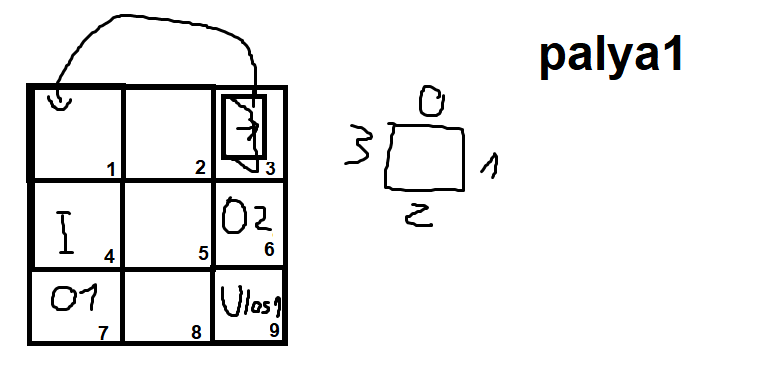
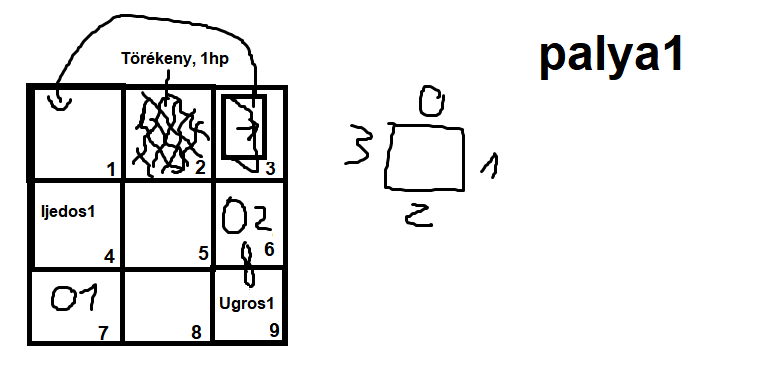
tesztesetek hozzáadva

diff --git a/src/skeletonApp/Skeleton.java b/src/skeletonApp/Skeleton.java
@@ -315,7 +315,7 @@ public class Skeleton {
 		} else if(commandstring.split(" ")[0].equals("do")) {			
 			String nev = commandstring.split(" ")[1];
 			String tipus = Skeleton.getObjectFromName(nev).getClass().getSimpleName(); // TODO??
-			if(tipus.equals("Ijedos") || tipus.equals("Ulos") || tipus.equals("Ugros")|| tipus.equals("Fotel")|| tipus.equals("Jategkep")|| tipus.equals("Csokiautomata")) {
+			if(tipus.equals("Ijedos") || tipus.equals("Ulos") || tipus.equals("Ugros")|| tipus.equals("Fotel")|| tipus.equals("Jatekgep")|| tipus.equals("Csokiautomata")) {
 				if(commandstring.split(" ")[2].equals("tick")) {
 					((ITickable)Skeleton.getObjectFromName(nev)).tick();
 				}
@@ -324,12 +324,13 @@ public class Skeleton {
 					Orangutan uj = (Orangutan)Skeleton.getObjectFromName(commandstring.split(" ")[3]);
 					((Game)Skeleton.getObjectFromName(nev)).setActiveOrangutan(uj);
 				} else if(commandstring.split(" ")[2].equals("elenged")) {		
-					Orangutan oran = (Orangutan)Skeleton.getObjectFromName(commandstring.split(" ")[3]);
+					//Orangutan oran = (Orangutan)Skeleton.getObjectFromName(commandstring.split(" ")[2]);
 					((Game)Skeleton.getObjectFromName(nev)).elenged();
 				} else if(commandstring.split(" ")[2].equals("leptet")) {		
 					int irany = Integer.parseInt(commandstring.split(" ")[3]);
 					((Game)Skeleton.getObjectFromName(nev)).leptet(irany);
-				}				
+				}	
+				else System.out.println("Nincs ilyen parancs!");  //TODO
 			}			
 		}
 	}

diff --git a/src/objektumok/Fotel.java b/src/objektumok/Fotel.java
@@ -51,7 +51,9 @@ public class Fotel extends Dolog implements ITickable {
 				// Mindegyik szomszédon lévő dologgal ütköztetjük.
 				ArrayList<Csempe> szomszedCsempek = sajatCsempe.getAllNeighbours();
 				for (int i = 0; i < szomszedCsempek.size(); i++) {
-					szomszedCsempek.get(i).getDolog().hitBy(this);					
+					Dolog d = szomszedCsempek.get(i).getDolog();
+					if(d!=null)
+						d.hitBy(this);					
 					// Leállítjuk a loopot, ha leültettünk valakit
 					if (this.panda != null) {
 						break;

diff --git a/src/objektumok/Csokiautomata.java b/src/objektumok/Csokiautomata.java
@@ -22,8 +22,12 @@ public class Csokiautomata extends Dolog implements ITickable {
 		
 		// Mindegyik szomszédon lévő dologgal ütköztetjük.
 		ArrayList<Csempe> szomszedCsempek = sajatCsempe.getAllNeighbours();
-		for(Csempe c : szomszedCsempek)
-			c.getDolog().hitBy(this);		
+		for(Csempe c : szomszedCsempek) {
+			Dolog d = c.getDolog();
+			if(d!=null)
+				d.hitBy(this);	
+		}
+					
 		Skeleton.ret();
 	}
 }

diff --git a/src/objektumok/Jatekgep.java b/src/objektumok/Jatekgep.java
@@ -26,8 +26,11 @@ public class Jatekgep extends Dolog implements ITickable {
 		
 		// Mindegyik szomszédon lévő dologgal ütköztetjük.
 		ArrayList<Csempe> szomszedCsempek = sajatCsempe.getAllNeighbours();
-		for(Csempe c : szomszedCsempek)
-			c.getDolog().hitBy(this);
+		for(Csempe c : szomszedCsempek) {
+			Dolog d = c.getDolog();
+			if(d!=null)
+				d.hitBy(this);	
+		}			
 		
 		Skeleton.ret();
 	}

diff --git a/src/objektumok/Torekenycsempe.java b/src/objektumok/Torekenycsempe.java
@@ -28,6 +28,9 @@ public class Torekenycsempe extends Csempe {
 	@Override
 	public void accept(Allat a) {
 		Skeleton.print(this, "accept", a);	
+		Csempe elozo = a.getCsempe();
+		if(elozo!=null)
+			elozo.setDolog(null);
 		this.setDolog(a);		
 		a.setCsempe(this);
 		if(a!=null) elettartam--;

diff --git a/src/objektumok/Ulos.java b/src/objektumok/Ulos.java
@@ -35,6 +35,7 @@ public class Ulos extends Panda {
 		// Leveszi magát a jelenlegi mezőről
 		Csempe sajatCsempe = getCsempe();
 		sajatCsempe.setDolog(null);
+		sajatCsempe = null;
 		
 		// Beleülteti a fotelbe a pandát
 		f.setPanda(this);
